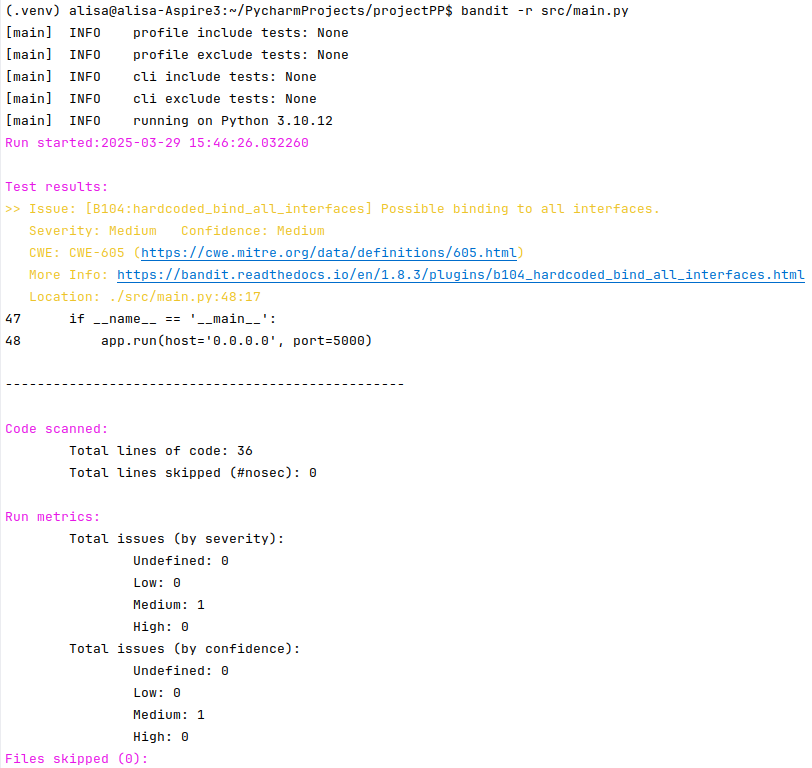
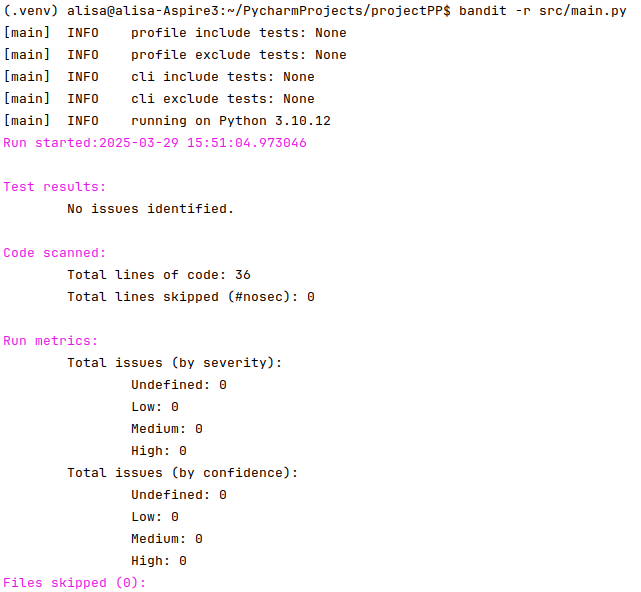
Практика 205: исправление bandit

diff --git a/src/main.py b/src/main.py
@@ -45,4 +45,4 @@ def plot():
 
 
 if __name__ == '__main__':
-    app.run(host='0.0.0.0', port=5000)
+    app.run(host='127.0.0.1', port=5000)

diff --git a/Report205.md b/Report205.md
@@ -29,4 +29,4 @@
 ![img_2.png](img_2.png)
 
 **Результаты проверки bandit**
-![img_3.png](img_3.png)
+![img_3.png](img_3.png)![img_3.png](img_3.png)
